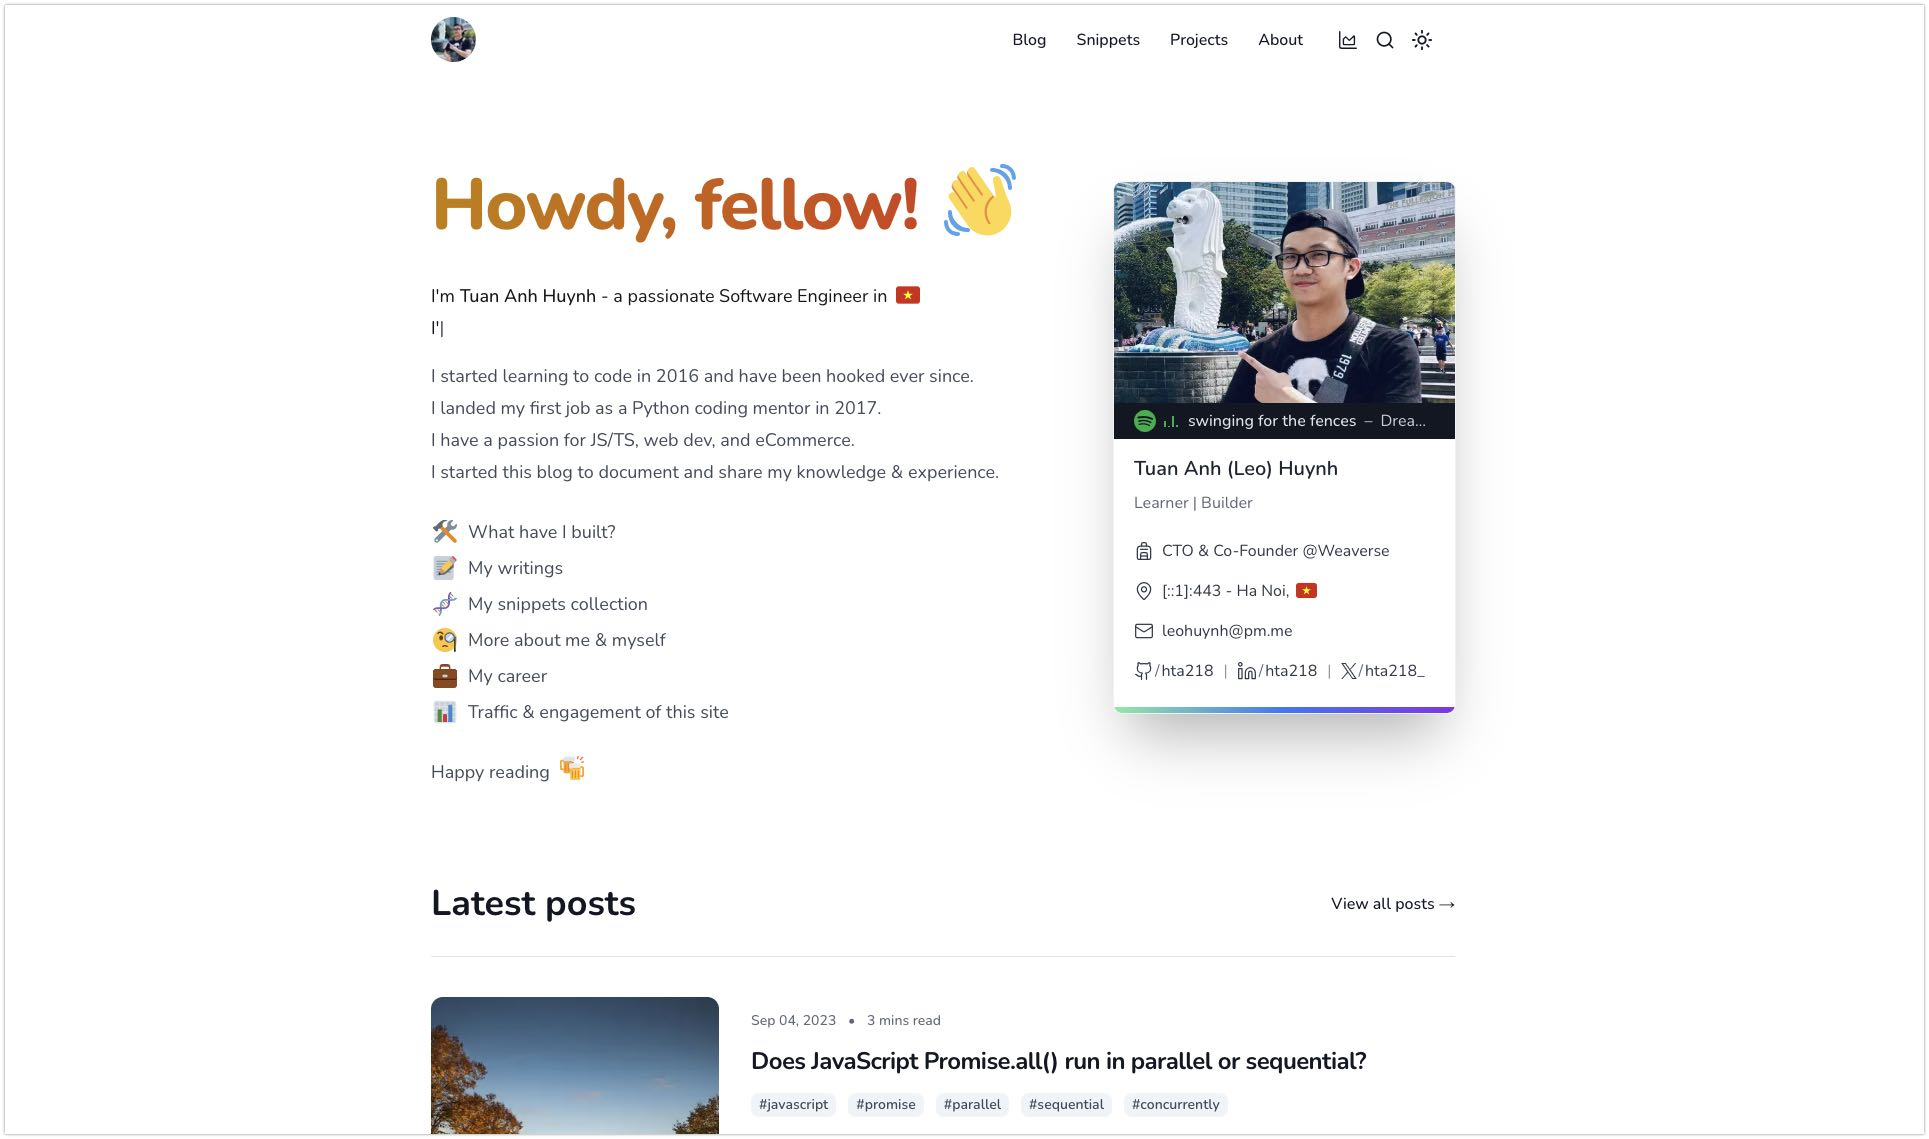
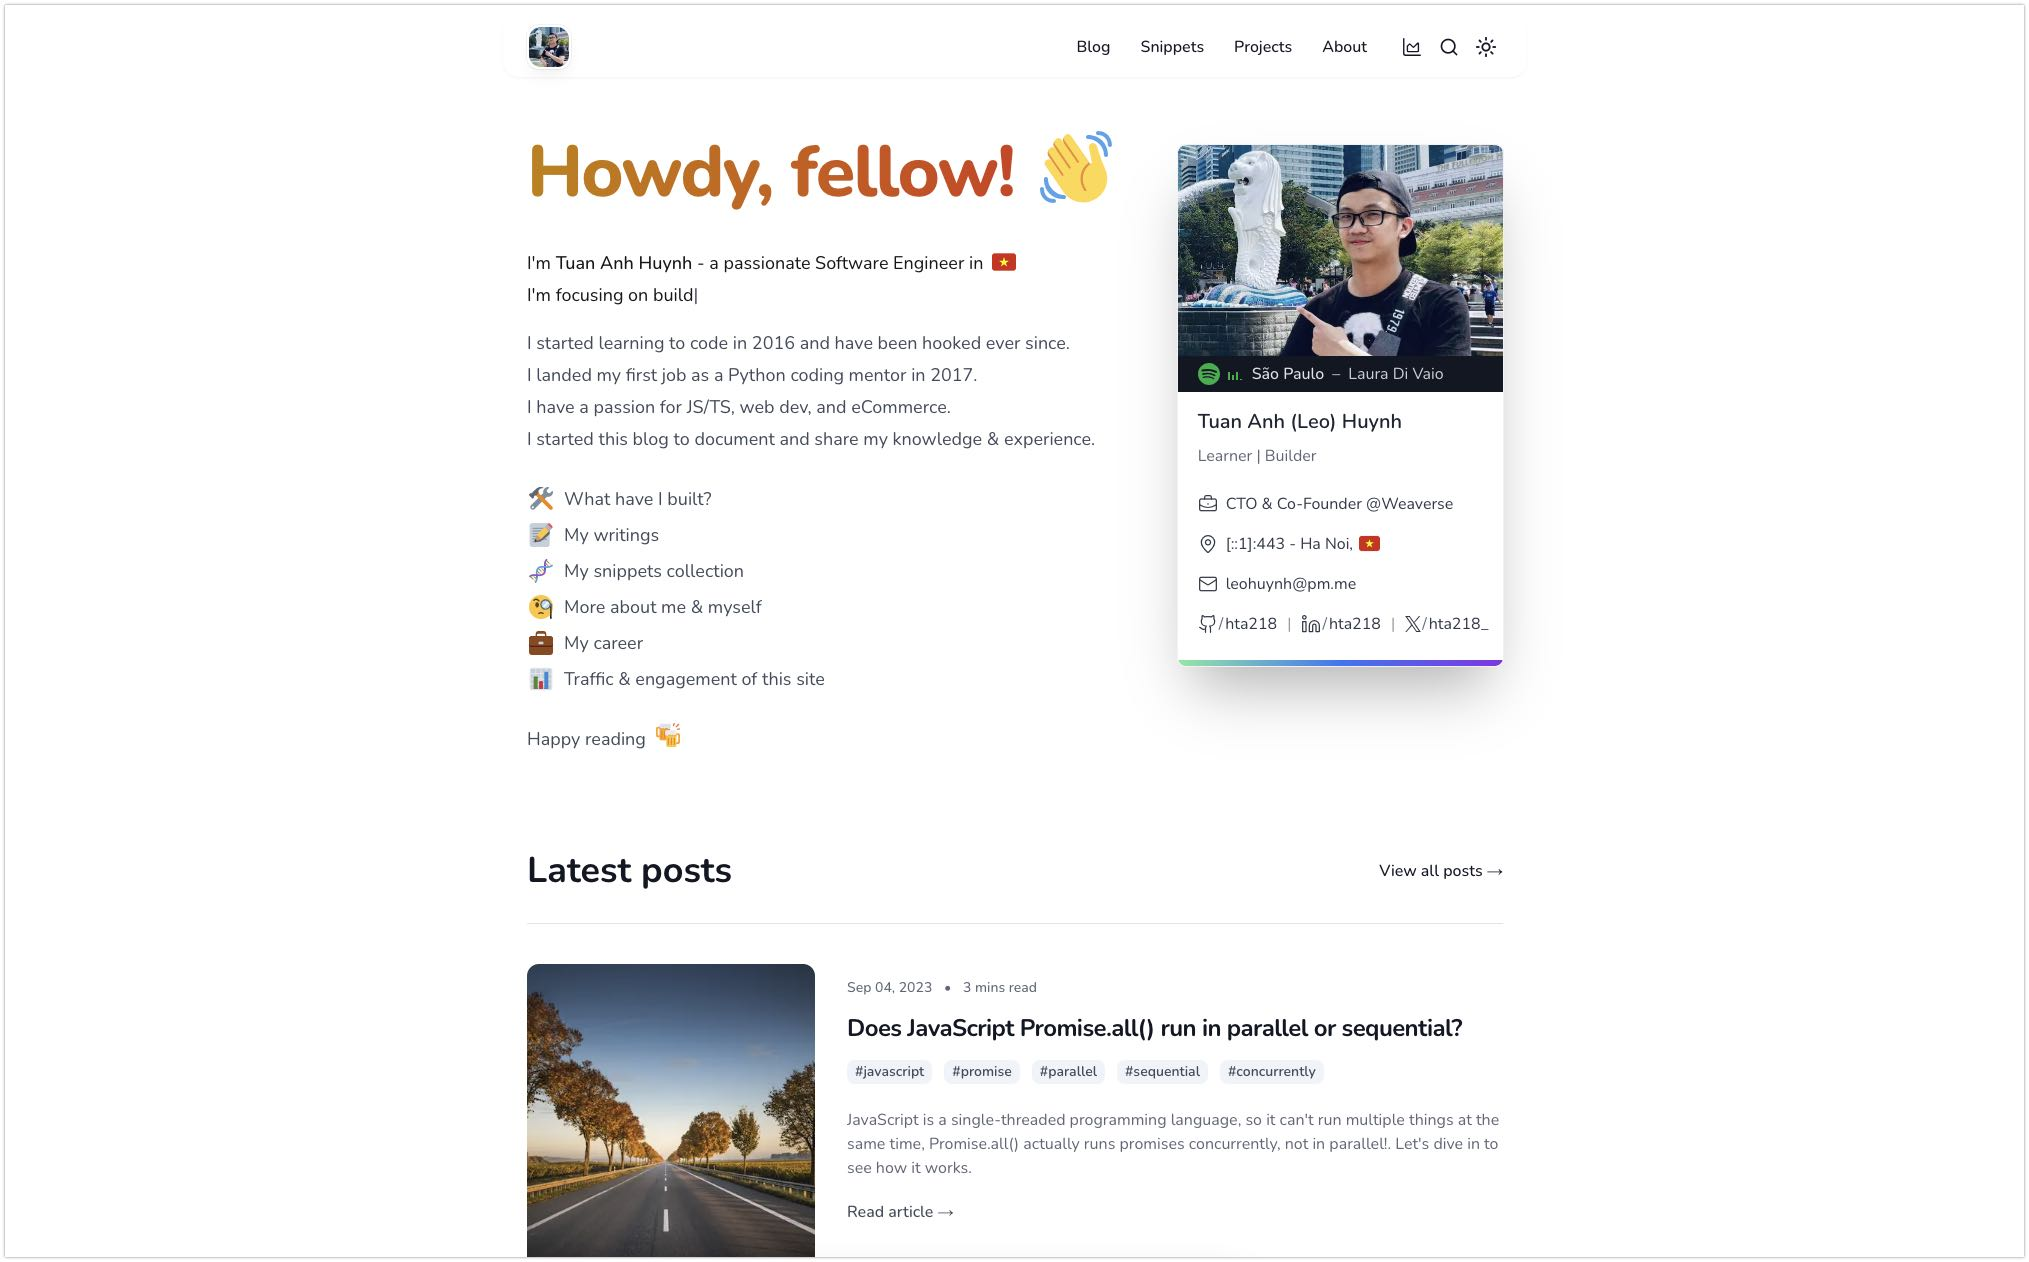
feat: update responsive styles & cleaning up

diff --git a/layouts/list-layout.tsx b/layouts/list-layout.tsx
@@ -7,6 +7,7 @@ import type { CoreContent } from 'pliny/utils/contentlayer'
 import { useState } from 'react'
 import { PostCardGridView } from '~/components/blog/post-card-grid-view'
 import Container from '~/components/Container'
+import { GrowingUnderline } from '~/components/growing-underline'
 import Link from '~/components/Link'
 import { PageHeader } from '~/components/page-header'
 import { SearchInput } from '~/components/search-input'
@@ -33,41 +34,39 @@ function Pagination({ totalPages, currentPage }: PaginationProps) {
       <nav className="flex justify-between">
         {prevPage ? (
           <Link
-            className="background-underline inline-flex cursor-pointer items-center gap-2"
+            className="cursor-pointer"
             href={currentPage - 1 === 1 ? `/${basePath}/` : `/${basePath}/page/${currentPage - 1}`}
             rel="prev"
           >
-            <ArrowLeft className="h-4 w-4" />
-            <span>Previous</span>
+            <GrowingUnderline className="inline-flex items-center gap-2">
+              <ArrowLeft className="h-4 w-4" />
+              <span>Previous</span>
+            </GrowingUnderline>
           </Link>
         ) : (
-          <button
-            className="background-underline inline-flex cursor-auto items-center gap-2 disabled:opacity-50"
-            disabled={!prevPage}
-          >
-            <ArrowLeft className="h-4 w-4" />
-            <span>Previous</span>
+          <button className="cursor-auto disabled:opacity-50" disabled={!prevPage}>
+            <GrowingUnderline className="inline-flex items-center gap-2">
+              <ArrowLeft className="h-4 w-4" />
+              <span>Previous</span>
+            </GrowingUnderline>
           </button>
         )}
         <span>
           {currentPage} / {totalPages}
         </span>
         {nextPage ? (
-          <Link
-            className="background-underline inline-flex cursor-pointer items-center gap-2"
-            href={`/${basePath}/page/${currentPage + 1}`}
-            rel="next"
-          >
-            <span>Next</span>
-            <ArrowRight className="h-4 w-4" />
+          <Link className="cursor-pointer" href={`/${basePath}/page/${currentPage + 1}`} rel="next">
+            <GrowingUnderline className="inline-flex items-center gap-2">
+              <span>Next</span>
+              <ArrowRight className="h-4 w-4" />
+            </GrowingUnderline>
           </Link>
         ) : (
-          <button
-            className="background-underline inline-flex cursor-auto items-center gap-2 disabled:opacity-50"
-            disabled={!nextPage}
-          >
-            <span>Next</span>
-            <ArrowRight className="h-4 w-4" />
+          <button className="cursor-auto disabled:opacity-50" disabled={!nextPage}>
+            <GrowingUnderline className="inline-flex items-center gap-2">
+              <span>Next</span>
+              <ArrowRight className="h-4 w-4" />
+            </GrowingUnderline>
           </button>
         )}
       </nav>
@@ -92,7 +91,7 @@ export function ListLayout({
     initialDisplayPosts.length > 0 && !searchValue ? initialDisplayPosts : filteredBlogPosts
 
   return (
-    <Container className="sm:pt-4 lg:pt-10">
+    <Container className="pt-4 lg:pt-12">
       <PageHeader
         title={title}
         description="I write about web dev, tech related, and sometime about my personal life.

diff --git a/components/blog/post-card-list-view.tsx b/components/blog/post-card-list-view.tsx
@@ -6,6 +6,7 @@ import siteMetadata from '~/data/siteMetadata'
 import { formatDate } from '~/utils/date'
 import type { Blog } from 'contentlayer/generated'
 import type { CoreContent } from 'pliny/utils/contentlayer'
+import { GrowingUnderline } from '../growing-underline'
 
 export function PostCardListView({ post }: { post: CoreContent<Blog> }) {
   let { slug, date, title, summary, tags, images, readingTime } = post
@@ -34,13 +35,9 @@ export function PostCardListView({ post }: { post: CoreContent<Blog> }) {
               </dl>
               <h2 className="pb-1 text-xl font-bold tracking-tight md:text-2xl">
                 <Link href={`/blog/${slug}`} className="text-gray-900 dark:text-gray-100">
-                  <span
-                    data-umami-event="latest-post-title"
-                    className="background-underline"
-                    style={{ '--duration': '500ms' } as CSSProperties}
-                  >
+                  <GrowingUnderline data-umami-event="latest-post-title" duration={500}>
                     {title}
-                  </span>
+                  </GrowingUnderline>
                 </Link>
               </h2>
               <BlogTags tags={tags} />
@@ -52,12 +49,12 @@ export function PostCardListView({ post }: { post: CoreContent<Blog> }) {
           <div className="text-base font-medium leading-6">
             <Link
               href={`/blog/${slug}`}
-              className="inline-flex items-center gap-2 text-gray-600 dark:text-gray-400"
+              className="inline-flex items-center gap-2 text-gray-600 dark:text-gray-300"
               aria-label={`Read "${title}"`}
             >
-              <span className="background-underline" data-umami-event="latest-post-read-more">
+              <GrowingUnderline data-umami-event="latest-post-read-more">
                 Read article →
-              </span>
+              </GrowingUnderline>
             </Link>
           </div>
         </div>

diff --git a/components/blog/post-card-grid-view.tsx b/components/blog/post-card-grid-view.tsx
@@ -4,6 +4,7 @@ import { formatDate } from 'pliny/utils/formatDate'
 import Image from '~/components/Image'
 import Link from '~/components/Link'
 import siteMetadata from '~/data/siteMetadata'
+import { GrowingUnderline } from '../growing-underline'
 
 export function PostCardGridView({ post }: { post: CoreContent<Blog> }) {
   let { path, date, title, summary, images, readingTime } = post
@@ -20,15 +21,15 @@ export function PostCardGridView({ post }: { post: CoreContent<Blog> }) {
           />
         </Link>
         <div className="w-full space-y-3">
-          <div className="flex items-center gap-x-1.5 text-sm text-gray-600">
+          <div className="flex items-center gap-x-1.5 text-sm text-gray-600 dark:text-gray-400">
             <time dateTime={date}>{formatDate(date)}</time>
             <span className="mx-1">{` • `}</span>
             <span>{Math.ceil(readingTime.minutes)} mins read</span>
           </div>
           <div className="group relative">
             <h3 className="text-xl font-semibold leading-6">
-              <Link href={`/${path}`} className="text-gray-900 dark:text-gray-100">
-                <span className="background-underline">{title}</span>
+              <Link href={`/${path}`}>
+                <GrowingUnderline>{title}</GrowingUnderline>
               </Link>
             </h3>
             {/* <p className="mt-2 line-clamp-2 text-sm leading-6 text-gray-600 dark:text-gray-500 md:mt-3">

diff --git a/components/project-card.tsx b/components/project-card.tsx
@@ -8,6 +8,7 @@ import Link from './Link'
 import clsx from 'clsx'
 import { GradientBorder } from './gradient-border'
 import { RadiantCard } from './radiant-card'
+import { GrowingUnderline } from './growing-underline'
 
 export function ProjectCard({
   project,
@@ -40,12 +41,10 @@ export function ProjectCard({
       </div>
       <div className="flex grow flex-col justify-between space-y-6 pb-1 md:w-1/2 md:pb-0">
         <div className="space-y-4">
-          <h2 className="text-2xl font-semibold leading-8">
+          <h2 className="text-[1.75rem] font-semibold leading-8">
             {href ? (
               <Link href={href} aria-label={`Link to ${title}`}>
-                <span data-umami-event="project-title-link" className="background-underline">
-                  {title}
-                </span>
+                <GrowingUnderline data-umami-event="project-title-link">{title}</GrowingUnderline>
               </Link>
             ) : (
               title
@@ -81,9 +80,9 @@ export function ProjectCard({
             className="text-base font-medium leading-6"
             aria-label={`Link to ${title}`}
           >
-            <span className="background-underline" data-umami-event="project-learn-more">
+            <GrowingUnderline data-umami-event="project-learn-more">
               Learn more &rarr;
-            </span>
+            </GrowingUnderline>
           </Link>
         )}
       </div>

diff --git a/components/SocialShareButtons.tsx b/components/SocialShareButtons.tsx
@@ -5,6 +5,7 @@ import { FacebookShareButton, TwitterShareButton } from 'react-share'
 import XIcon from '~/icons/x.svg'
 import Link from './Link'
 import siteMetadata from '~/data/siteMetadata'
+import { GrowingUnderline } from './growing-underline'
 
 type SocialButtonsProps = {
   postUrl: string
@@ -27,19 +28,19 @@ export function SocialShareButtons({ postUrl, title, filePath }: SocialButtonsPr
               href={`https://twitter.com/search?q=${encodeURIComponent(postUrl)}`}
               rel="nofollow"
             >
-              <span className="background-underline" data-umami-event="discuss-on-x">
+              <GrowingUnderline data-umami-event="discuss-on-x">
                 Discuss on <span className="font-semibold">X</span> (
                 <span className="font-semibold">Twitter</span>)
-              </span>
+              </GrowingUnderline>
             </Link>
             <span>{` • `}</span>
           </>
         )}
         {CREATE_DISCUS_ON_GITHUB === 'TRUE' && (
           <Link href={`${siteMetadata.siteRepo}/blob/main/data/${filePath}`}>
-            <span className="background-underline" data-umami-event="discuss-on-github">
+            <GrowingUnderline data-umami-event="view-on-github">
               View on <span className="font-semibold">GitHub</span>
-            </span>
+            </GrowingUnderline>
           </Link>
         )}
       </div>

diff --git a/components/Header.tsx b/components/Header.tsx
@@ -11,6 +11,7 @@ import MobileNav from './MobileNav'
 import SearchButton from './SearchButton'
 import ThemeSwitcher from './ThemeSwitcher'
 import { AnalyticsLink } from './AnalyticsLink'
+import { GrowingUnderline } from './growing-underline'
 
 function Header() {
   let pathname = usePathname()
@@ -44,15 +45,12 @@ function Header() {
             {HEADER_NAV_LINKS.filter((link) => link.href !== '/').map(({ title, href }) => {
               return (
                 <Link key={title} href={href} className="px-3 py-1 font-medium">
-                  <span
-                    className={clsx(
-                      'background-underline',
-                      pathname.startsWith(href) && 'bg-[length:100%_50%]'
-                    )}
+                  <GrowingUnderline
+                    className={clsx(pathname.startsWith(href) && 'bg-[length:100%_50%]')}
                     data-umami-event={`nav-${href.replace('/', '')}`}
                   >
                     {title}
-                  </span>
+                  </GrowingUnderline>
                 </Link>
               )
             })}

diff --git a/components/blog/post-nav.tsx b/components/blog/post-nav.tsx
@@ -1,0 +1,38 @@
+import Link from '../Link'
+
+export function PostNav({
+  next,
+  prev,
+}: {
+  next?: { path: string; title: string }
+  prev?: { path: string; title: string }
+}) {
+  return (
+    <footer>
+      <div className="flex flex-col text-sm font-medium sm:flex-row sm:justify-between sm:text-base">
+        {prev && prev.path && (
+          <div className="pt-4 xl:pt-8">
+            <Link
+              href={`/${prev.path}`}
+              className="text-primary-500 hover:text-primary-600 dark:hover:text-primary-400"
+              aria-label={`Previous post: ${prev.title}`}
+            >
+              ← {prev.title}
+            </Link>
+          </div>
+        )}
+        {next && next.path && (
+          <div className="pt-4 xl:pt-8">
+            <Link
+              href={`/${next.path}`}
+              className="text-primary-500 hover:text-primary-600 dark:hover:text-primary-400"
+              aria-label={`Next post: ${next.title}`}
+            >
+              {next.title} →
+            </Link>
+          </div>
+        )}
+      </div>
+    </footer>
+  )
+}

diff --git a/components/gradient-border.tsx b/components/gradient-border.tsx
@@ -18,15 +18,15 @@ export function GradientBorder({
       <span
         className={clsx([
           'absolute -top-px right-4 h-px w-[40%]',
-          'bg-gradient-to-r from-blue-500/0 via-blue-500/40 to-blue-500/0',
-          'dark:from-blue-400/0 dark:via-blue-400/40 dark:to-blue-400/0',
+          'bg-gradient-to-r from-blue-500/0 via-indigo-500/40 to-indigo-500/0',
+          'dark:from-indigo-400/0 dark:via-indigo-400/40 dark:to-indigo-400/0',
         ])}
       />
       <span
         className={clsx([
           'absolute -left-px top-4 h-[40%] w-px',
-          'bg-gradient-to-b from-blue-500/0 via-blue-500/40 to-blue-500/0',
-          'dark:from-blue-400/0 dark:via-blue-400/40 dark:to-blue-400/0',
+          'bg-gradient-to-b from-indigo-500/0 via-indigo-500/40 to-indigo-500/0',
+          'dark:from-indigo-400/0 dark:via-indigo-400/40 dark:to-indigo-400/0',
         ])}
       />
       {children}

diff --git a/components/career.tsx b/components/career.tsx
@@ -3,6 +3,7 @@ import Image from './Image'
 import Link from './Link'
 import Twemoji from './Twemoji'
 import { Minus, Plus } from 'lucide-react'
+import { GrowingUnderline } from './growing-underline'
 
 const EXPERIENCES = [
   {
@@ -259,9 +260,7 @@ function TimelineItem({ exp, last }: { exp: (typeof EXPERIENCES)[0]; last?: bool
               href={url}
               className="line-clamp-1 w-fit font-semibold text-gray-900 no-underline hover:text-gray-900 dark:text-white dark:hover:text-white"
             >
-              <span data-umami-event={event} className="background-underline">
-                {org}
-              </span>
+              <GrowingUnderline data-umami-event={event}>{org}</GrowingUnderline>
             </Link>
             <div className="flex items-center gap-1 pt-1 text-sm text-gray-700 dark:text-gray-200">
               <Twemoji emoji={icon} className="!-mt-1" />

diff --git a/components/home-page/LatestPosts.tsx b/components/home-page/LatestPosts.tsx
@@ -2,6 +2,7 @@ import type { CoreContent } from 'pliny/utils/contentlayer'
 import type { Blog } from '~/.contentlayer/generated'
 import Link from '~/components/Link'
 import { PostCardListView } from '~/components/blog/post-card-list-view'
+import { GrowingUnderline } from '../growing-underline'
 
 const MAX_DISPLAY = 5
 
@@ -13,9 +14,9 @@ export function LatestPosts({ posts }: { posts: CoreContent<Blog>[] }) {
         {posts.length > MAX_DISPLAY && (
           <div className="flex justify-end text-base font-medium leading-6">
             <Link href="/blog" className="" aria-label="All posts">
-              <span data-umami-event="all-posts" className="background-underline">
+              <GrowingUnderline data-umami-event="all-posts">
                 View all posts &rarr;
-              </span>
+              </GrowingUnderline>
             </Link>
           </div>
         )}

diff --git a/app/blog/[...slug]/page.tsx b/app/blog/[...slug]/page.tsx
@@ -1,8 +1,8 @@
 import 'css/prism.css'
-import 'katex/dist/katex.css'
+// import 'katex/dist/katex.css'
 
 import { components } from '@/components/MDXComponents'
-import type { Authors, Blog } from 'contentlayer/generated'
+import type { Author, Blog } from 'contentlayer/generated'
 import { allAuthors, allBlogs } from 'contentlayer/generated'
 import type { Metadata } from 'next'
 import { notFound } from 'next/navigation'
@@ -92,7 +92,7 @@ export default async function Page({ params }: { params: { slug: string[] } }) {
   let authorList = post?.authors || ['default']
   let authorDetails = authorList.map((author) => {
     let authorResults = allAuthors.find((p) => p.slug === author)
-    return coreContent(authorResults as Authors)
+    return coreContent(authorResults as Author)
   })
   let mainContent = coreContent(post)
   let jsonLd = post.structuredData

diff --git a/components/growing-underline.tsx b/components/growing-underline.tsx
@@ -1,0 +1,33 @@
+import { clsx } from 'clsx'
+import type { CSSProperties } from 'react'
+
+export function GrowingUnderline({
+  as: Component = 'span',
+  children,
+  className,
+  duration,
+  ...rest
+}: {
+  children: React.ReactNode
+  as?: React.ElementType
+  className?: string
+  duration?: number
+  [key: string]: any
+}) {
+  return (
+    <Component
+      className={clsx([
+        'bg-gradient-to-r bg-left-bottom bg-no-repeat',
+        'transition-[background-size] duration-[var(--duration,300ms)]',
+        'bg-[length:0px_50%] hover:bg-[length:100%_50%]',
+        'from-green-200 to-green-100',
+        'dark:from-lime-800 dark:to-lime-900',
+        className,
+      ])}
+      style={{ '--duration': `${duration || 300}ms` } as CSSProperties}
+      {...rest}
+    >
+      {children}
+    </Component>
+  )
+}
